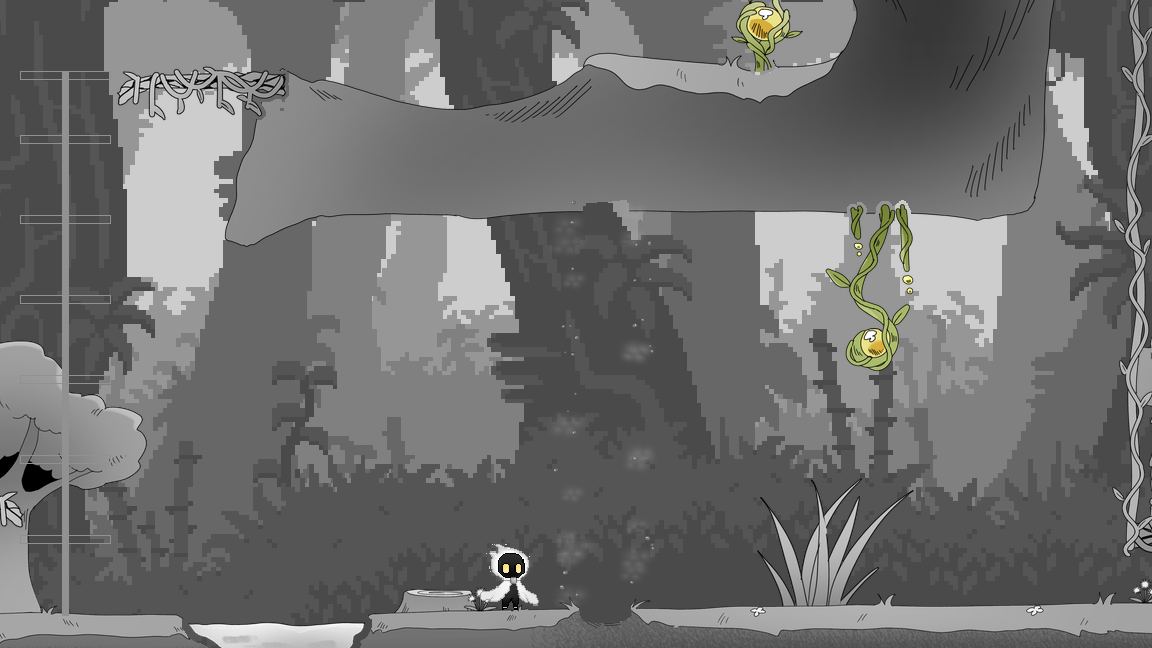
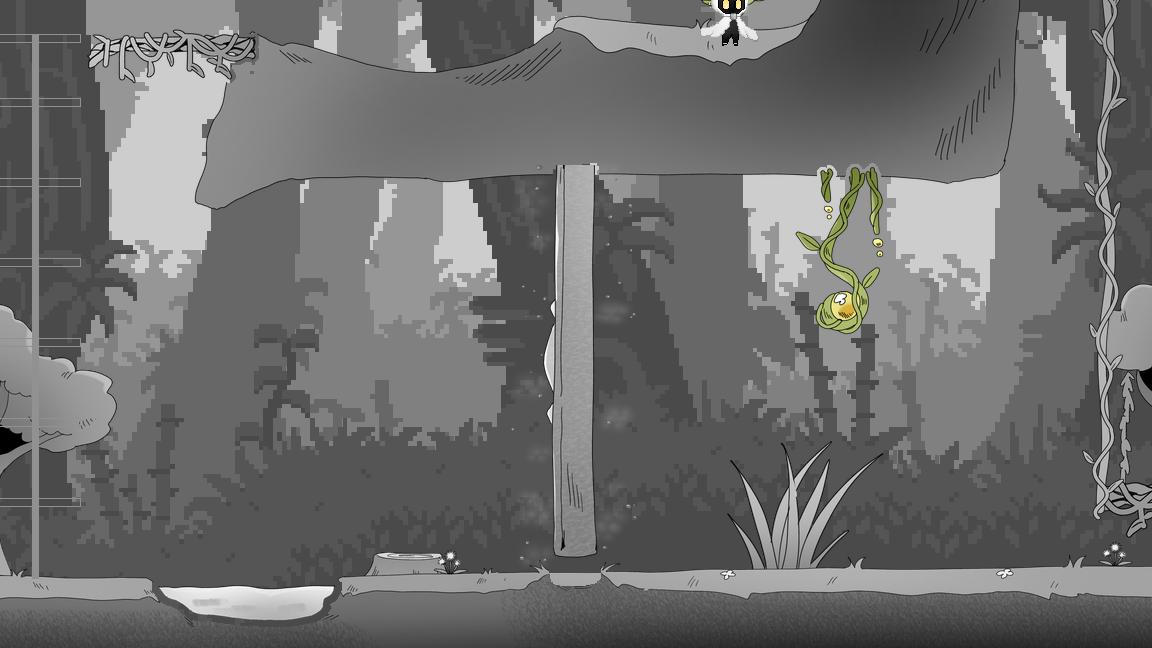
문 상승과 카메라 이동·복귀 미리보기 및 안내 갱신

diff --git a/tools/preview_stage.py b/tools/preview_stage.py
@@ -11,6 +11,7 @@ from tools.preview_tutorial import rectangle
 from code.illustrated_level import IllustratedLevel
 from code.blockout import ForestBlockout
 from code.player import Player
+from code.camera import Camera
 
 
 def main():
@@ -77,17 +78,21 @@ def main():
         frames[0].save(out / 'elevator.gif', append_images=frames[1:],
                         save_all=True, duration=100, loop=0)
         player.enter_level(level)
-        player.x, player.y = 2810, 78 + player.FOOT_OFFSET
-        closed = render(2300, 40)
-        frames = [closed.copy() for _ in range(6)]
+        player.x, player.y = 3060, 605 + player.FOOT_OFFSET
+        camera = Camera(1152, level.width, level.height)
+        camera.snap_to(player.x, player.y)
+        closed = render(*camera.view_position())
+        frames = [closed.resize((864, 486), Image.Resampling.LANCZOS) for _ in range(6)]
         level.door_switch.active = True
-        for i in range(40):
+        for i in range(112):
             level.update(1 / 30, player)
-            shake_x, shake_y = level.door_effect.shake_offset
-            shot = render(2300 + shake_x, 40 + shake_y)
-            frames.append(shot)
-            if i == 4:
+            camera.follow(*level.camera_target(player), 1 / 30)
+            shot = render(*camera.view_position(*level.door_effect.shake_offset))
+            frames.append(shot.resize((864, 486), Image.Resampling.LANCZOS))
+            if i == 23:
                 shot.save(out / 'door_open_dust.png')
+            if i == 41:
+                shot.save(out / 'door_half_open.png')
         frames[0].save(out / 'door_opening.gif', append_images=frames[1:],
                         save_all=True, duration=33, loop=0)
 

diff --git a/README.md b/README.md
@@ -85,8 +85,8 @@ BGM 슬라이더는 현재 재생 중인 배경음악에, 효과음 슬라이더
 ## 진행 순서
 
 앞의 파란 정사각형에서 색을 얻어 폭포에 부여하면 통과할 수 있습니다.
-색을 회수하고 2로 초록으로 변환하면 그림의 덩굴 발판을 활성화할 수 있습니다.
-활성 덩굴 발판은 아래에서 통과해 위에 착지하며 S로 내려갑니다. 회수하면 발판 판정이 사라집니다.
+색을 회수하고 2로 초록으로 변환하면 임시 세로 덩굴 기믹을 활성화할 수 있습니다.
+활성화한 임시 덩굴의 발판은 아래에서 통과해 위에 착지하며 S로 내려갑니다. 회수하면 발판 판정이 사라집니다.
 그림 중앙의 문 장치는 노랑으로 작동하며, 색을 회수하면 문이 닫힙니다.
 이전 맵의 사각형 낙수와 보이지 않는 진행 잠금은 새 스테이지에서 사용하지 않습니다.
 
@@ -97,7 +97,10 @@ BGM 슬라이더는 현재 재생 중인 배경음악에, 효과음 슬라이더
 엘리베이터의 긴 덩굴과 발판 그림은 같은 거리만큼 통째로 이동합니다.
 가로로 놓인 네 덩굴 발판은 색 부여 없이 항상 밟을 수 있으며, 아래에서 점프로 통과하고 S로 내려갈 수 있습니다.
 R을 누르면 엘리베이터 위치·장치·물·색·캐릭터가 모두 초기화됩니다.
-문이 열리는 순간 0.38초 동안 최대 7픽셀의 화면 흔들림이 서서히 줄어들고, 문 양옆에서 회색 돌 조각과 먼지가 퍼집니다.
+문 장치를 켜면 카메라가 약 0.55초 동안 문 쪽으로 이동하고, 문이 1.7초에 걸쳐 천장 위로 들어갑니다.
+문이 움직이기 시작할 때 0.38초 동안 최대 7픽셀의 화면 흔들림이 서서히 줄어들고, 문 양옆에서 회색 돌 조각과 먼지가 퍼집니다.
+문을 다 연 뒤 잠시 보여주고 카메라가 캐릭터를 다시 따라갑니다. 문 그림과 남은 충돌 범위는 같은 높이로 움직입니다.
+색을 회수하면 문이 천천히 내려오며, 문 아래에 캐릭터가 있으면 닿기 전에 멈춥니다.
 문이 열린 상태에서는 반복하지 않으며, 다시 닫았다 열면 한 번 더 재생합니다. R로 초기화하면 효과도 사라집니다.
 흔들림은 화면에만 적용하며 충돌·캐릭터 위치는 유지합니다. 클릭 좌표와 충돌 범위 표시는 흔들린 화면에 맞춥니다.
 
